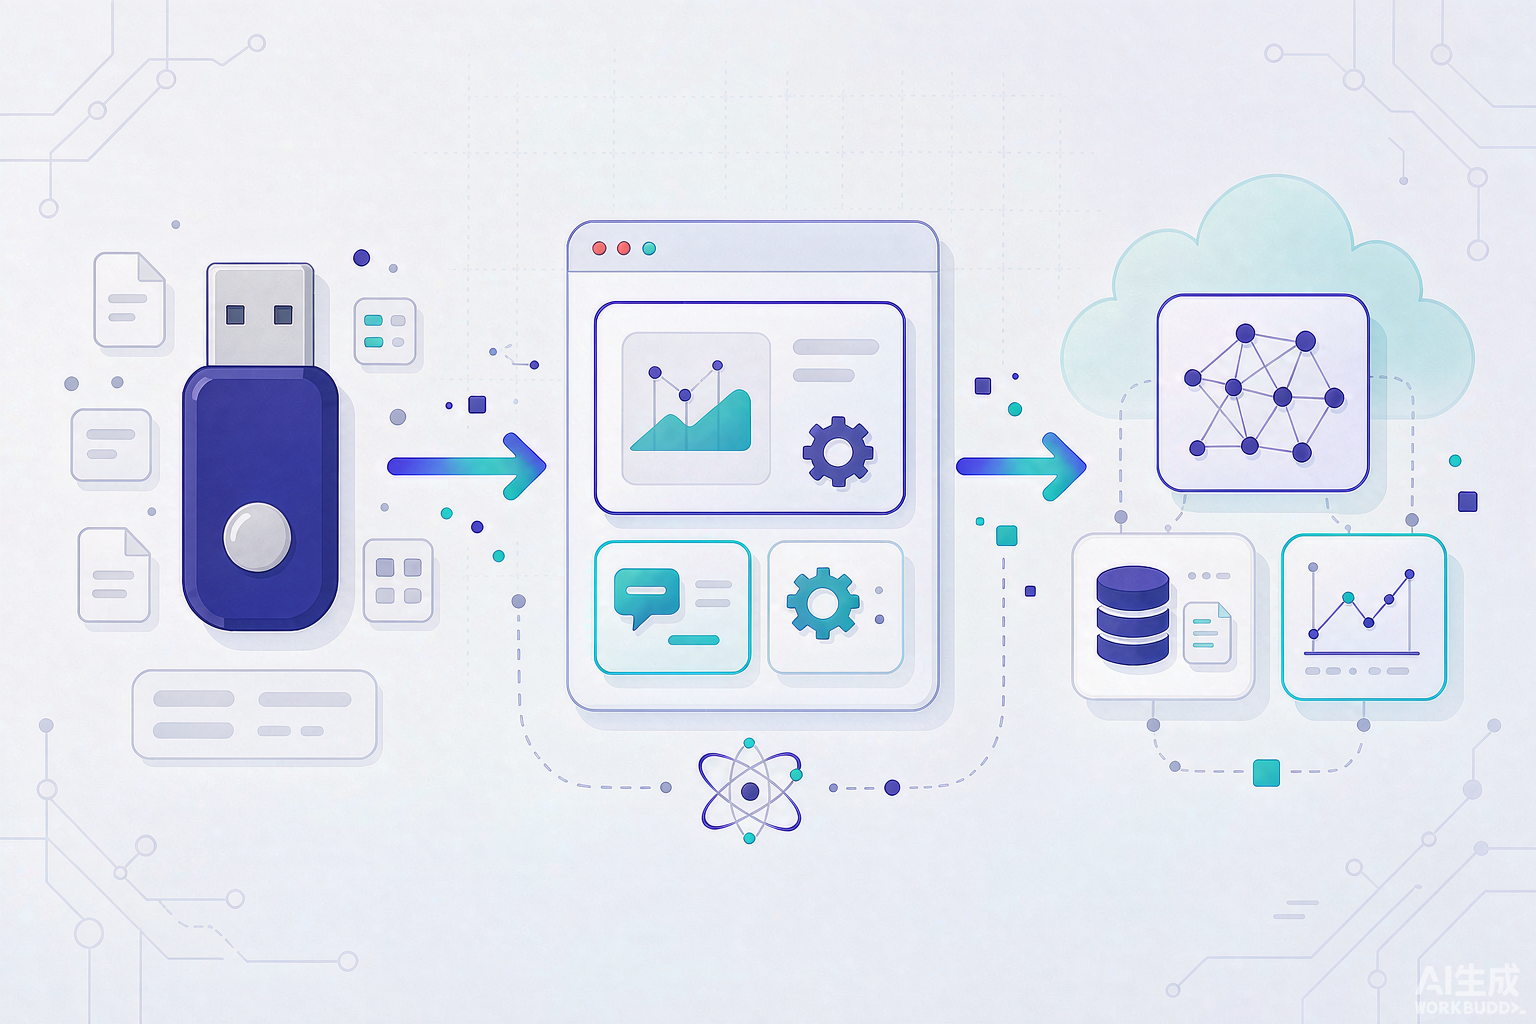
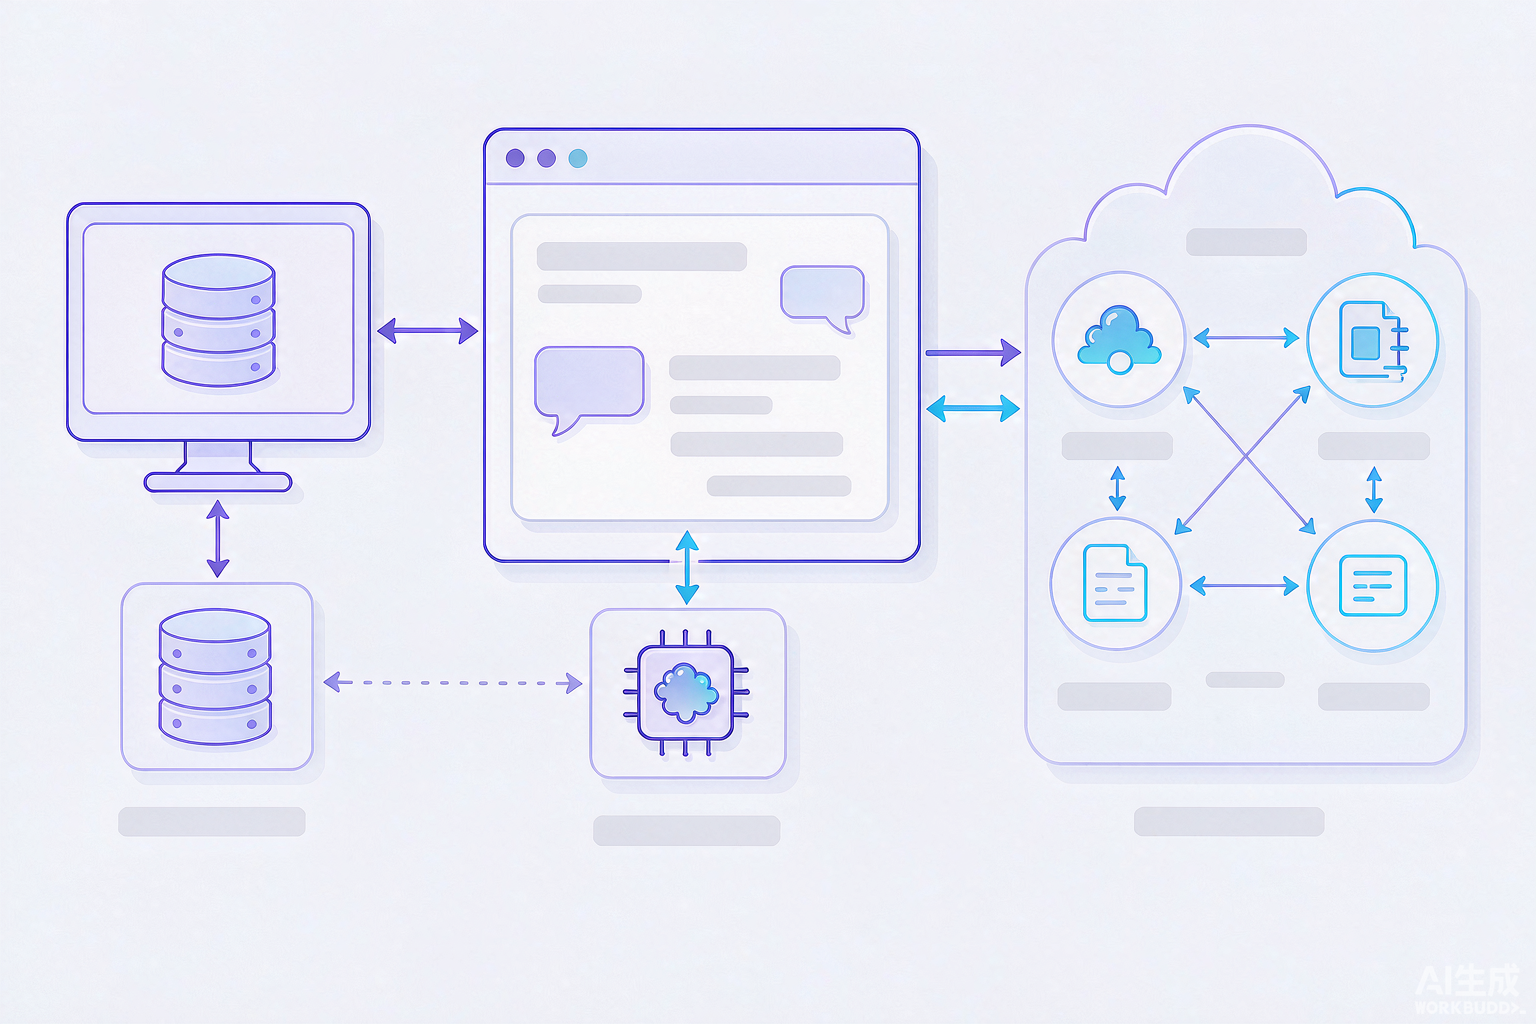
docs: 产品形态改为本地部署（去掉 U 盘描述）并更新架构图

diff --git a/PRODUCT.md b/PRODUCT.md
@@ -6,11 +6,11 @@ product
 
 ## Users
 
-Partner-W面向第一次接触或不熟悉 AI 工具的大众 Windows 用户，也服务于内容创作者、短视频从业者、职场用户、电商运营者、学习研究者和家庭用户。用户通常从 U 盘启动客户端，希望快速完成一项具体任务，而不是学习 Agent、模型、Token 或网关等技术概念。
+Partner-W面向第一次接触或不熟悉 AI 工具的大众 Windows 用户，也服务于内容创作者、短视频从业者、职场用户、电商运营者、学习研究者和家庭用户。用户在本机安装部署客户端，希望快速完成一项具体任务，而不是学习 Agent、模型、Token 或网关等技术概念。
 
 ## Product Purpose
 
-Partner-W以普通或加密 U 盘作为产品入口，在电脑上运行客户端，并联网调用云端模型。产品通过用途引导、专业助手、任务模板、文件处理和模型服务，让用户从“我不知道怎么问”进入“我完成了一件事”。成功标准是新用户登录后能在三分钟内完成第一次真实 AI 任务，并能清楚查看余额、使用记录和下一步操作。
+Partner-W以本地部署作为产品形态，在电脑上运行客户端，并联网调用云端模型。产品通过用途引导、专业助手、任务模板、文件处理和模型服务，让用户从“我不知道怎么问”进入“我完成了一件事”。成功标准是新用户登录后能在三分钟内完成第一次真实 AI 任务，并能清楚查看余额、使用记录和下一步操作。
 
 ## Brand Personality
 
